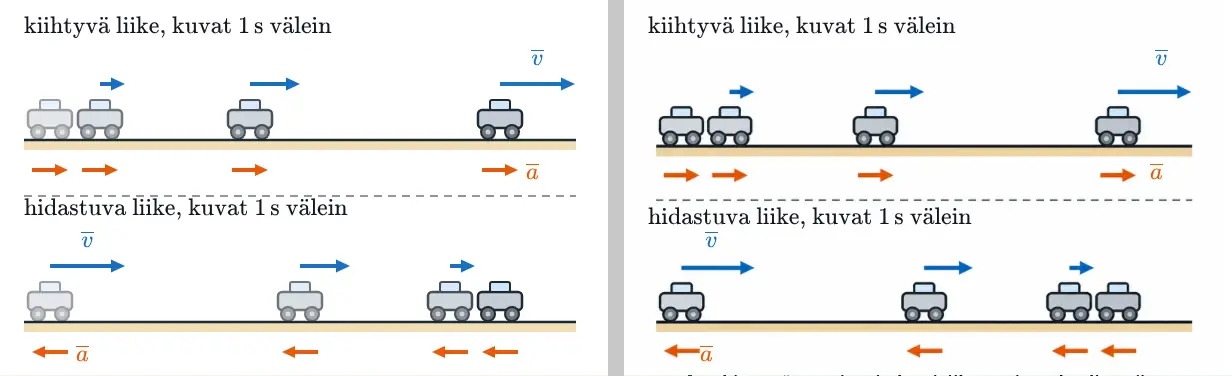
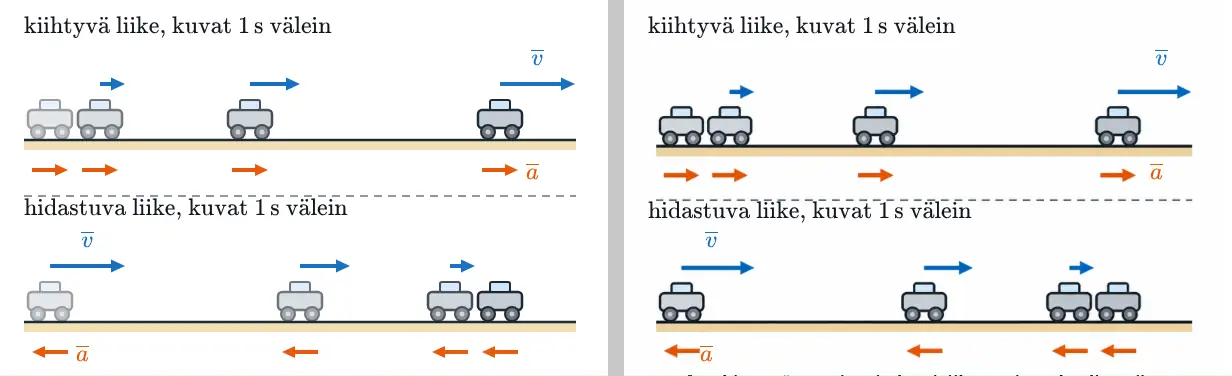
FY4: strobe-otsikon siirto, virhe-kuvan reunan rajaus (opettajan hyväksymät suositukset)
Claude-Session: https://claude.ai/code/session_018S3zFxhrDF8YSSj6fYK1fW

Changed region(s): [[0.5244, 0.5266, 0.8019, 0.6144]]

diff --git a/fysiikkalabra/content/en/FY4/fy4-2/lesson.md b/fysiikkalabra/content/en/FY4/fy4-2/lesson.md
@@ -18,7 +18,7 @@ Acceleration is a vector quantity $\overline{a}$, like velocity $\overline{v}$, 
   <foreignObject x="24" y="9.5" width="420" height="29" overflow="visible"><div xmlns="http://www.w3.org/1999/xhtml" class="fig-tex" style="display:flex;align-items:center;justify-content:flex-start;height:100%;font-size:24px">$\text{accelerating motion}\text{, frames } 1\,\text{s} \text{ apart}$</div></foreignObject>
   <foreignObject x="521" y="41.5" width="33" height="29" overflow="visible"><div xmlns="http://www.w3.org/1999/xhtml" class="fig-tex" style="display:flex;align-items:center;justify-content:center;height:100%;font-size:24px;color:#1971c2">$\overline{v}$</div></foreignObject>
   <foreignObject x="526" y="155.5" width="33" height="29" overflow="visible"><div xmlns="http://www.w3.org/1999/xhtml" class="fig-tex" style="display:flex;align-items:center;justify-content:flex-start;height:100%;font-size:24px;color:#e8590c">$\overline{a}$</div></foreignObject>
-  <foreignObject x="24" y="200.5" width="420" height="29" overflow="visible"><div xmlns="http://www.w3.org/1999/xhtml" class="fig-tex" style="display:flex;align-items:center;justify-content:flex-start;height:100%;font-size:24px">$\text{decelerating motion}\text{, frames } 1\,\text{s} \text{ apart}$</div></foreignObject>
+  <foreignObject x="24" y="194.5" width="420" height="29" overflow="visible"><div xmlns="http://www.w3.org/1999/xhtml" class="fig-tex" style="display:flex;align-items:center;justify-content:flex-start;height:100%;font-size:24px">$\text{decelerating motion}\text{, frames } 1\,\text{s} \text{ apart}$</div></foreignObject>
   <foreignObject x="71" y="223.5" width="33" height="29" overflow="visible"><div xmlns="http://www.w3.org/1999/xhtml" class="fig-tex" style="display:flex;align-items:center;justify-content:center;height:100%;font-size:24px;color:#1971c2">$\overline{v}$</div></foreignObject>
   <foreignObject x="76" y="337.5" width="33" height="29" overflow="visible"><div xmlns="http://www.w3.org/1999/xhtml" class="fig-tex" style="display:flex;align-items:center;justify-content:flex-start;height:100%;font-size:24px;color:#e8590c">$\overline{a}$</div></foreignObject>
 </svg>

diff --git a/fysiikkalabra/content/fi-easy/FY4/fy4-2/lesson.md b/fysiikkalabra/content/fi-easy/FY4/fy4-2/lesson.md
@@ -18,7 +18,7 @@ Kiihtyvyys on vektorisuure $\overline{a}$ niin kuin nopeus $\overline{v}$. Vekto
   <foreignObject x="24" y="9.5" width="357" height="29" overflow="visible"><div xmlns="http://www.w3.org/1999/xhtml" class="fig-tex" style="display:flex;align-items:center;justify-content:flex-start;height:100%;font-size:24px">$\text{kiihtyvä liike}\text{, kuvat } 1\,\text{s} \text{ välein}$</div></foreignObject>
   <foreignObject x="521" y="41.5" width="33" height="29" overflow="visible"><div xmlns="http://www.w3.org/1999/xhtml" class="fig-tex" style="display:flex;align-items:center;justify-content:center;height:100%;font-size:24px;color:#1971c2">$\overline{v}$</div></foreignObject>
   <foreignObject x="526" y="155.5" width="33" height="29" overflow="visible"><div xmlns="http://www.w3.org/1999/xhtml" class="fig-tex" style="display:flex;align-items:center;justify-content:flex-start;height:100%;font-size:24px;color:#e8590c">$\overline{a}$</div></foreignObject>
-  <foreignObject x="24" y="200.5" width="370" height="29" overflow="visible"><div xmlns="http://www.w3.org/1999/xhtml" class="fig-tex" style="display:flex;align-items:center;justify-content:flex-start;height:100%;font-size:24px">$\text{hidastuva liike}\text{, kuvat } 1\,\text{s} \text{ välein}$</div></foreignObject>
+  <foreignObject x="24" y="194.5" width="370" height="29" overflow="visible"><div xmlns="http://www.w3.org/1999/xhtml" class="fig-tex" style="display:flex;align-items:center;justify-content:flex-start;height:100%;font-size:24px">$\text{hidastuva liike}\text{, kuvat } 1\,\text{s} \text{ välein}$</div></foreignObject>
   <foreignObject x="71" y="223.5" width="33" height="29" overflow="visible"><div xmlns="http://www.w3.org/1999/xhtml" class="fig-tex" style="display:flex;align-items:center;justify-content:center;height:100%;font-size:24px;color:#1971c2">$\overline{v}$</div></foreignObject>
   <foreignObject x="76" y="337.5" width="33" height="29" overflow="visible"><div xmlns="http://www.w3.org/1999/xhtml" class="fig-tex" style="display:flex;align-items:center;justify-content:flex-start;height:100%;font-size:24px;color:#e8590c">$\overline{a}$</div></foreignObject>
 </svg>

diff --git a/fysiikkalabra/content/fi/FY4/fy4-2/lesson.md b/fysiikkalabra/content/fi/FY4/fy4-2/lesson.md
@@ -18,7 +18,7 @@ Kiihtyvyys on vektorisuure $\overline{a}$ kuten nopeus $\overline{v}$, ja suorav
   <foreignObject x="24" y="9.5" width="357" height="29" overflow="visible"><div xmlns="http://www.w3.org/1999/xhtml" class="fig-tex" style="display:flex;align-items:center;justify-content:flex-start;height:100%;font-size:24px">$\text{kiihtyvä liike}\text{, kuvat } 1\,\text{s} \text{ välein}$</div></foreignObject>
   <foreignObject x="521" y="41.5" width="33" height="29" overflow="visible"><div xmlns="http://www.w3.org/1999/xhtml" class="fig-tex" style="display:flex;align-items:center;justify-content:center;height:100%;font-size:24px;color:#1971c2">$\overline{v}$</div></foreignObject>
   <foreignObject x="526" y="155.5" width="33" height="29" overflow="visible"><div xmlns="http://www.w3.org/1999/xhtml" class="fig-tex" style="display:flex;align-items:center;justify-content:flex-start;height:100%;font-size:24px;color:#e8590c">$\overline{a}$</div></foreignObject>
-  <foreignObject x="24" y="200.5" width="370" height="29" overflow="visible"><div xmlns="http://www.w3.org/1999/xhtml" class="fig-tex" style="display:flex;align-items:center;justify-content:flex-start;height:100%;font-size:24px">$\text{hidastuva liike}\text{, kuvat } 1\,\text{s} \text{ välein}$</div></foreignObject>
+  <foreignObject x="24" y="194.5" width="370" height="29" overflow="visible"><div xmlns="http://www.w3.org/1999/xhtml" class="fig-tex" style="display:flex;align-items:center;justify-content:flex-start;height:100%;font-size:24px">$\text{hidastuva liike}\text{, kuvat } 1\,\text{s} \text{ välein}$</div></foreignObject>
   <foreignObject x="71" y="223.5" width="33" height="29" overflow="visible"><div xmlns="http://www.w3.org/1999/xhtml" class="fig-tex" style="display:flex;align-items:center;justify-content:center;height:100%;font-size:24px;color:#1971c2">$\overline{v}$</div></foreignObject>
   <foreignObject x="76" y="337.5" width="33" height="29" overflow="visible"><div xmlns="http://www.w3.org/1999/xhtml" class="fig-tex" style="display:flex;align-items:center;justify-content:flex-start;height:100%;font-size:24px;color:#e8590c">$\overline{a}$</div></foreignObject>
 </svg>

diff --git a/fysiikkalabra/docs/audits/img24-fy4/README.md b/fysiikkalabra/docs/audits/img24-fy4/README.md
@@ -11,12 +11,8 @@ Ei tässä PR:ssä:
   ne jäävät ennalleen. Kuvapaketin 75 kuvasta tässä on 72.
 - 11 kuvaajaa ja ohitettua kuvaa (`PAATOS.txt`) ennallaan. Käsin `lesson.md`:hen liimattuja SVG:itä FY4:ssä ei ole.
 
-Huomiot (piirroksia ei muutettu):
-- `fy4-2/strobe`: opettajan siirtämä otsikko "hidastuva liike" (`{"3":[0,9]}`) menee 3–4 px päällekkäin merkinnän $\overline{v}$
-  kanssa (`check_layout.py` svg-text, kaikilla kielillä, 360 ja 1280 px).
-- `fy4-13/virhe`: rivin laatikko ylittää viewBoxin (oikealle 13,4, alas 20,0, vasemmalle 5,2 kuvan yksikköä; 1280 px:llä
-  `svg-image` 6 px, `check_layout.py` FAIL). Leikkautuva osa on pelkkää taustaa, piirros ei leikkaudu.
-- `fy4-7/hero`: laatikko (12,4; 17,3; 1188,1 × 599,0) ylittää viewBoxin 0,5 px oikealle ja 16,3 alas; alareunasta leikkautuu
-  noin 3 % kuvan ei-taustapikseleistä (kuvitusta, ei tyhjää), vasempaan ja yläreunaan jää 12 ja 17 yksikön kaista ilman kuvaa.
-  Opettajan huomio "1/4 h taustaväri pois" toteutettu (`ilman taustaa` [3, 4]).
+Huomiot (opettaja hyväksyi suositukset 2026-11-21, koordinaattorin viesti; piirroksia ei muutettu):
+- `fy4-2/strobe`: otsikon "hidastuva liike" siirto muutettu `{"3":[0,9]}` → `{"3":[0,3]}`, jotta se ei mene $\overline{v}$:n päälle (`check_layout.py` OK).
+- `fy4-13/virhe`: tyhjä reuna rajattu kuvatiedostosta (1552 × 588 px), rivin laatikko = viewBoxin sisälle (0; 2,6; 600 × 227,4); `check_layout.py` OK.
+- `fy4-7/hero`: hyväksytty sellaisenaan: laatikko ylittää alas 16,3 yksikköä, alareunasta leikkautuu ~3 % ei-taustapikseleistä; "1/4 h taustaväri pois" toteutettu (`ilman taustaa` [3, 4]).
 - Muut rivit ylittävät viewBoxin enintään 20 yksikköä, ja leikkautuva osa on pelkkää taustaa (`check_layout.py` OK).
